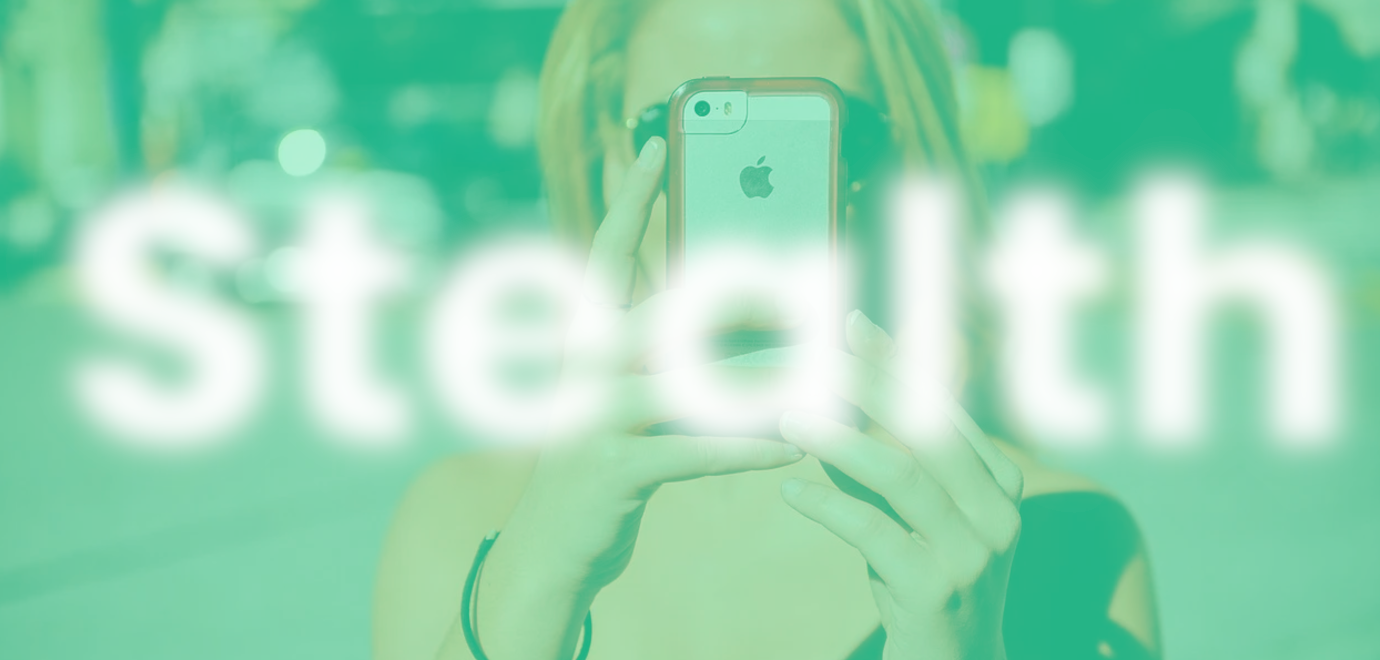
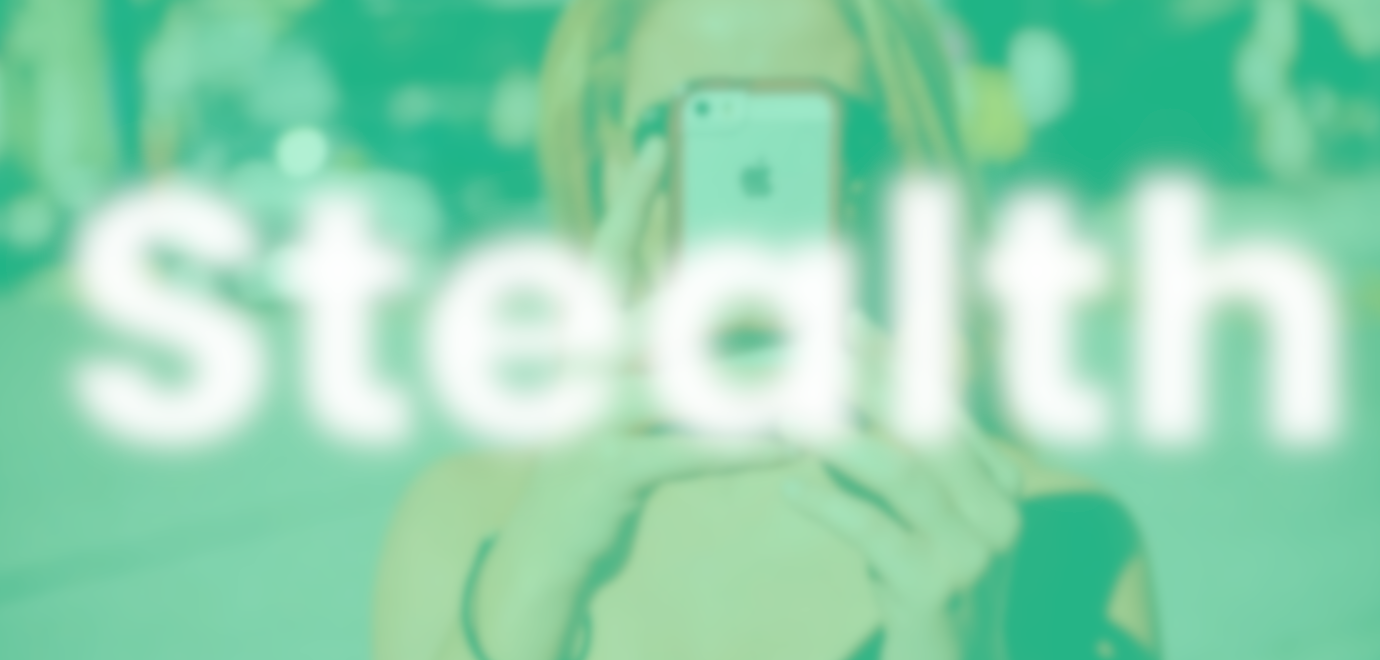
Update index.html

diff --git a/index.html b/index.html
@@ -67,7 +67,7 @@
 									<a href="mailto:stealth@christoph.tech">
 										<h2>Stealth</h2>
 										<div class="content">
-											<p>The next generation of mobile advertising. Send us an email for more information. </p>
+											<p>The next generation of mobile advertising. Send us an email for more information.</p>
 										</div>
 									</a>
 								</article>

diff --git a/assets/css/main.css b/assets/css/main.css
@@ -2757,6 +2757,14 @@
 				background-color: #454545;
 			}
 
+			.tiles article.styleR2o > .image:before {
+				background-color: #1493BE;
+			}
+
+			.tiles article.styleGreen > .image:before {
+				background-color: #08e5a7;
+			}
+
 			body:not(.is-touch) .tiles article:hover > .image {
 				-moz-transform: scale(1.1);
 				-webkit-transform: scale(1.1);
